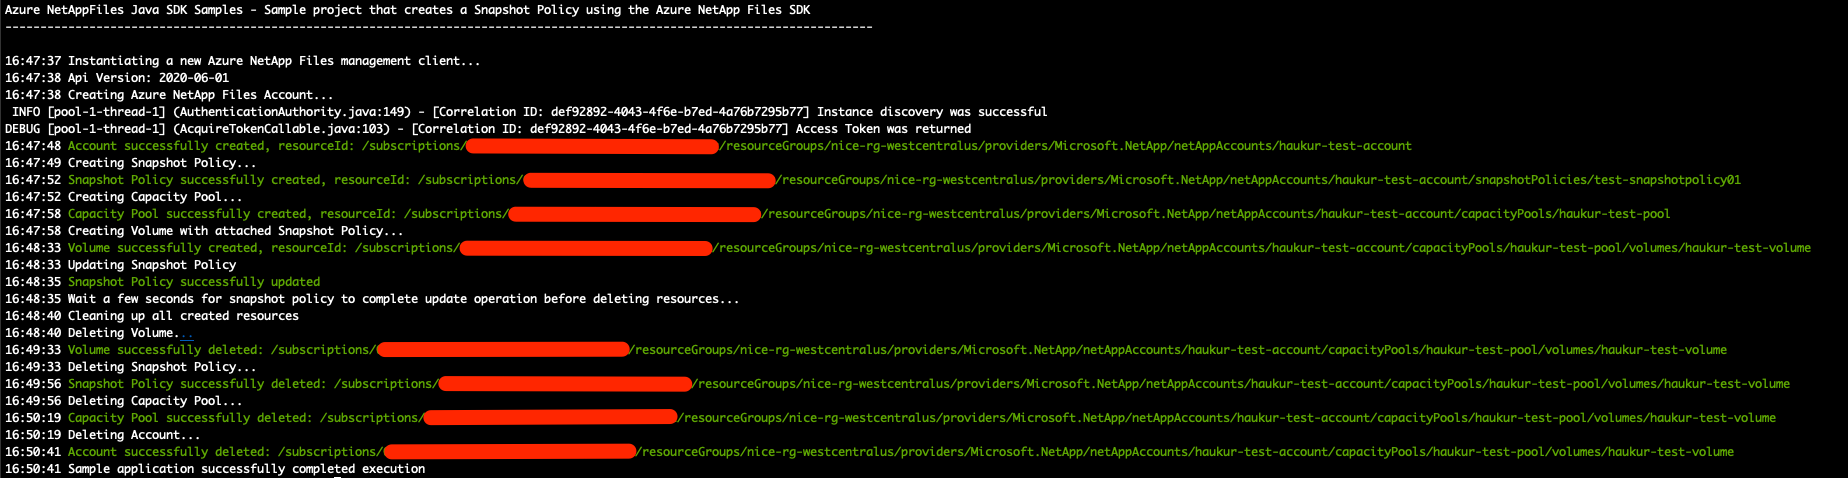
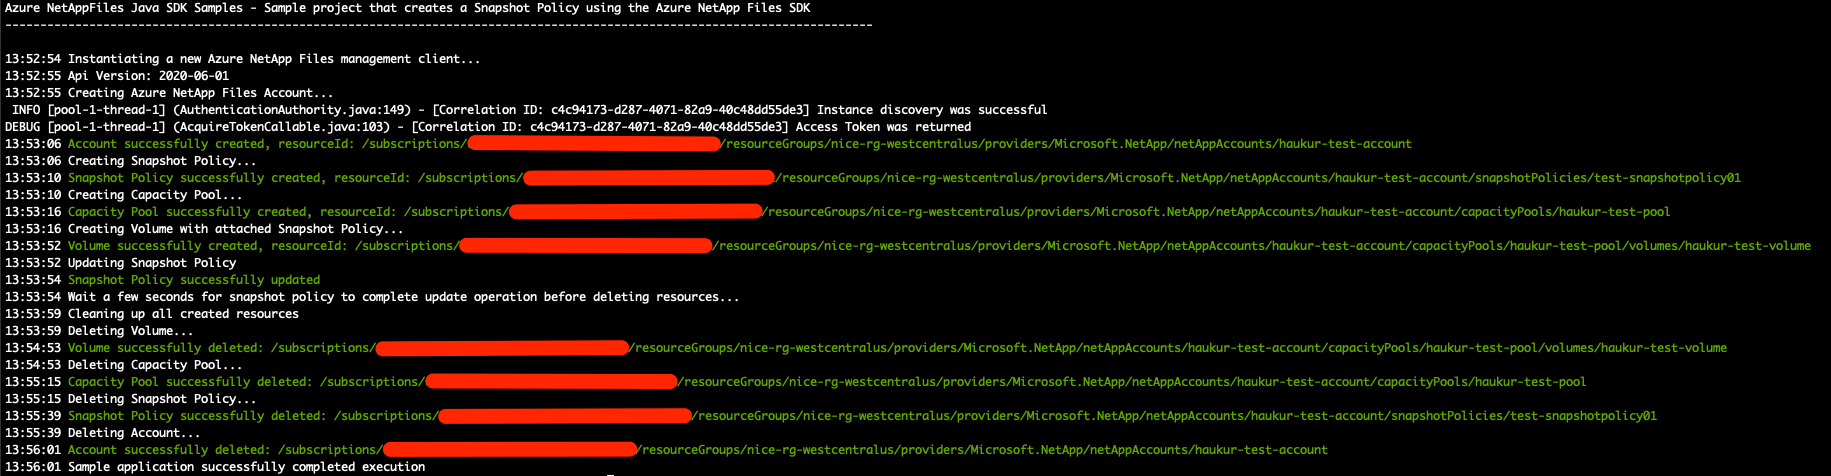
update cleanup order, success image, and more

Changed region(s): [[0.0, 0.1176, 0.9962, 1.0], [0.0, 0.0, 0.467, 0.0588]]

diff --git a/src/main/java/snapshotpolicy/sdk/sample/main.java b/src/main/java/snapshotpolicy/sdk/sample/main.java
@@ -270,7 +270,7 @@ public class main
           Cleanup process. For this process to take effect please change the value of
           the boolean variable 'cleanup' to 'true'
           The cleanup process starts from the innermost resources down in the hierarchy chain.
-          In this case: Volume -> Snapshot Policy -> Capacity Pool -> Account
+          In this case: Volume -> Capacity Pool -> Snapshot Policy -> Account
           Note that a Snapshot Policy can be used by multiple Volumes, therefore we must first delete the Volume(s)
           using the Snapshot Policy before we can delete the policy itself
         */
@@ -285,17 +285,17 @@ public class main
                 CommonSdk.waitForNoANFResource(anfClient, volume.id(), VolumeInner.class);
                 Utils.writeSuccessMessage("Volume successfully deleted: " + volume.id());
 
-                await(Cleanup.runCleanupTask(anfClient, policyParams, SnapshotPolicyInner.class));
-                CommonSdk.waitForNoANFResource(anfClient, snapshotPolicy.id(), SnapshotPolicyInner.class);
-                Utils.writeSuccessMessage("Snapshot Policy successfully deleted: " + volume.id());
-
                 await(Cleanup.runCleanupTask(anfClient, poolParams, CapacityPoolInner.class));
                 CommonSdk.waitForNoANFResource(anfClient, capacityPool.id(), CapacityPoolInner.class);
-                Utils.writeSuccessMessage("Capacity Pool successfully deleted: " + volume.id());
+                Utils.writeSuccessMessage("Capacity Pool successfully deleted: " + capacityPool.id());
+
+                await(Cleanup.runCleanupTask(anfClient, policyParams, SnapshotPolicyInner.class));
+                CommonSdk.waitForNoANFResource(anfClient, snapshotPolicy.id(), SnapshotPolicyInner.class);
+                Utils.writeSuccessMessage("Snapshot Policy successfully deleted: " + snapshotPolicy.id());
 
                 await(Cleanup.runCleanupTask(anfClient, accountParams, NetAppAccountInner.class));
                 CommonSdk.waitForNoANFResource(anfClient, anfAccount.id(), NetAppAccountInner.class);
-                Utils.writeSuccessMessage("Account successfully deleted: " + volume.id());
+                Utils.writeSuccessMessage("Account successfully deleted: " + anfAccount.id());
             }
             catch (CloudException e)
             {

diff --git a/README.md b/README.md
@@ -133,6 +133,7 @@ Sample output
 
 ## References
 
+* [Manage snapshots by using Azure NetApp Files](https://docs.microsoft.com/en-us/azure/azure-netapp-files/azure-netapp-files-manage-snapshots)
 * [Resource limits for Azure NetApp Files](https://docs.microsoft.com/azure/azure-netapp-files/azure-netapp-files-resource-limits)
 * [Azure Cloud Shell](https://docs.microsoft.com/azure/cloud-shell/quickstart)
 * [Azure NetApp Files documentation](https://docs.microsoft.com/azure/azure-netapp-files/)
